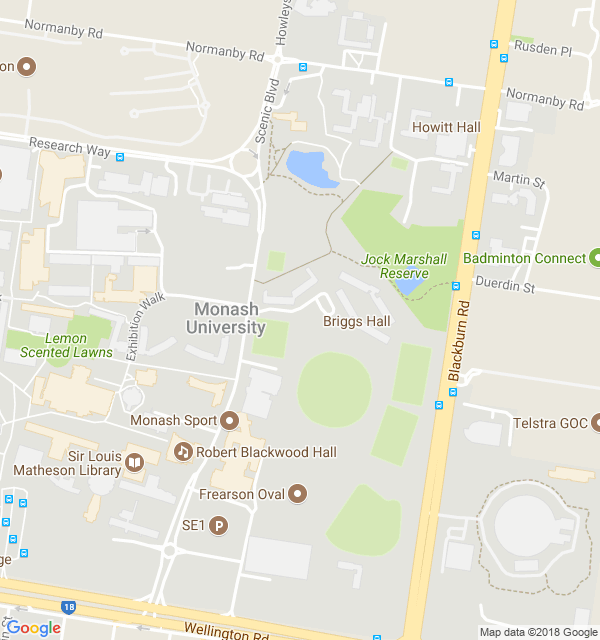
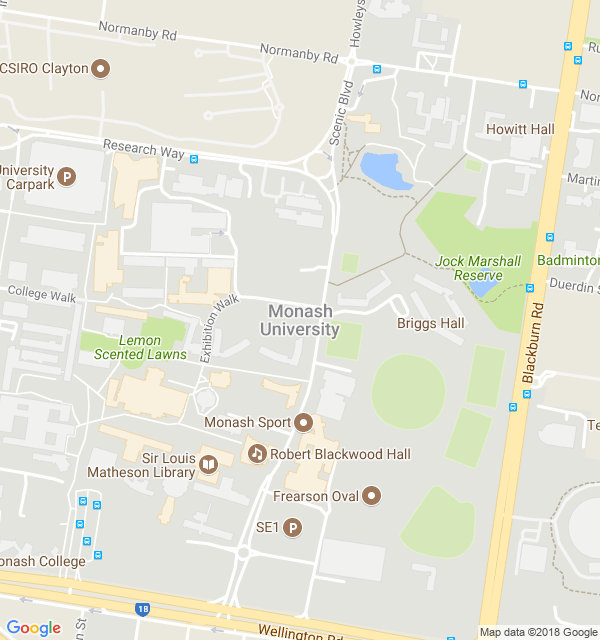
made a polyline for the map in square kilometer.

diff --git a/webapp/views/map.html b/webapp/views/map.html
@@ -46,8 +46,8 @@
     <script type="text/javascript">
     var map;
     var marker;
-		var lat = 0;
-		var long = 0;
+		var latt = -37.910524;
+		var long = 145.136218;
     var myLatlng = new google.maps.LatLng(-37.910524,145.136218);
     var geocoder = new google.maps.Geocoder();
     var infowindow = new google.maps.InfoWindow();
@@ -59,6 +59,20 @@
     };
 
     map = new google.maps.Map(document.getElementById("myMap"), mapOptions);
+		var L1Coord = [
+				 {lat: latt, lng:long},
+				 {lat: latt+.005, lng: long+ 0.005}
+			 ];
+			 var L1 = new google.maps.Polyline({
+				 path: L1Coord,
+				 geodesic: true,
+				 strokeColor: '#FF0000',
+				 strokeOpacity: 1.0,
+				 strokeWeight: 2
+			 });
+			 L1.setMap(map);
+
+
 
     marker = new google.maps.Marker({
     map: map,
@@ -82,8 +96,10 @@
     }
     });
 
-    google.maps.event.addListener(marker, 'dragend', function() {
 
+
+
+    google.maps.event.addListener(marker, 'dragend', function() {
     geocoder.geocode({'latLng': marker.getPosition()}, function(results, status) {
     if (status == google.maps.GeocoderStatus.OK) {
     if (results[0]) {
@@ -96,10 +112,30 @@
     console.log([marker.getPosition().lat(),marker.getPosition().lng()]);
     infowindow.setContent(results[0].formatted_address);
     infowindow.open(map, marker);
+		L1Coord = [
+				 {lat: latt, lng:long},
+				 {lat: latt, lng: long+ 0.005675000000024966}
+			 ];
+			  L1 = new google.maps.Polyline({
+				 path: L1Coord,
+				 geodesic: true,
+				 strokeColor: '#FF0000',
+				 strokeOpacity: 1.0,
+				 strokeWeight: 2
+			 });
+		L1.setMap(map);
+
+
+
+
     }
     }
     });
     });
+		google.maps.event.addListener(marker, 'dragstart', function() {
+		L1.setMap(null);
+
+		});
 
     }
     google.maps.event.addDomListener(window, 'load', initialize);

diff --git a/webapp/views/test.html b/webapp/views/test.html
@@ -1,0 +1,62 @@
+// This example requires the Geometry library. Include the libraries=geometry
+// parameter when you first load the API. For example:
+// <script src="https://maps.googleapis.com/maps/api/js?key=YOUR_API_KEY&libraries=geometry">
+
+var marker1, marker2;
+var poly, geodesicPoly;
+
+function initMap() {
+  var map = new google.maps.Map(document.getElementById('map'), {
+    zoom: 4,
+    center: {lat: 34, lng: -40.605}
+  });
+
+  map.controls[google.maps.ControlPosition.TOP_CENTER].push(
+      document.getElementById('info'));
+
+  marker1 = new google.maps.Marker({
+    map: map,
+    draggable: true,
+    position: {lat: 40.714, lng: -74.006}
+  });
+
+  marker2 = new google.maps.Marker({
+    map: map,
+    draggable: true,
+    position: {lat: 48.857, lng: 2.352}
+  });
+
+  var bounds = new google.maps.LatLngBounds(
+      marker1.getPosition(), marker2.getPosition());
+  map.fitBounds(bounds);
+
+  google.maps.event.addListener(marker1, 'position_changed', update);
+  google.maps.event.addListener(marker2, 'position_changed', update);
+
+  poly = new google.maps.Polyline({
+    strokeColor: '#FF0000',
+    strokeOpacity: 1.0,
+    strokeWeight: 3,
+    map: map,
+  });
+
+  geodesicPoly = new google.maps.Polyline({
+    strokeColor: '#CC0099',
+    strokeOpacity: 1.0,
+    strokeWeight: 3,
+    geodesic: true,
+    map: map
+  });
+
+  update();
+}
+
+function update() {
+  var path = [marker1.getPosition(), marker2.getPosition()];
+  poly.setPath(path);
+  geodesicPoly.setPath(path);
+  var heading = google.maps.geometry.spherical.computeHeading(path[0], path[1]);
+  document.getElementById('heading').value = heading;
+  document.getElementById('origin').value = path[0].toString();
+  document.getElementById('destination').value = path[1].toString();
+}
